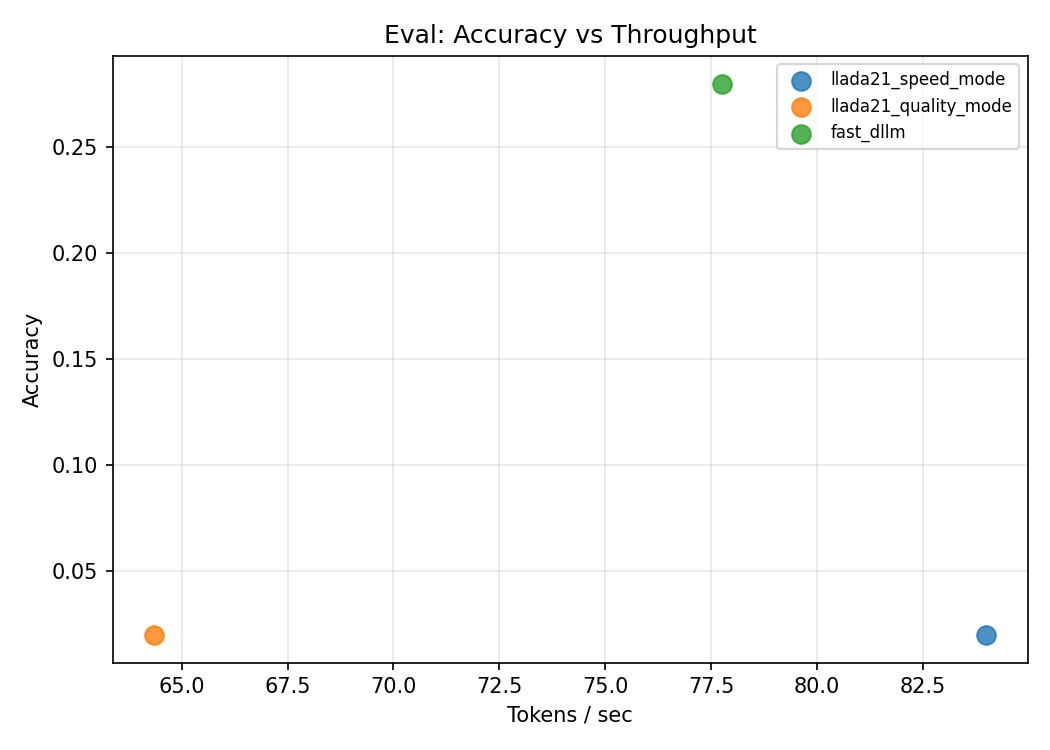
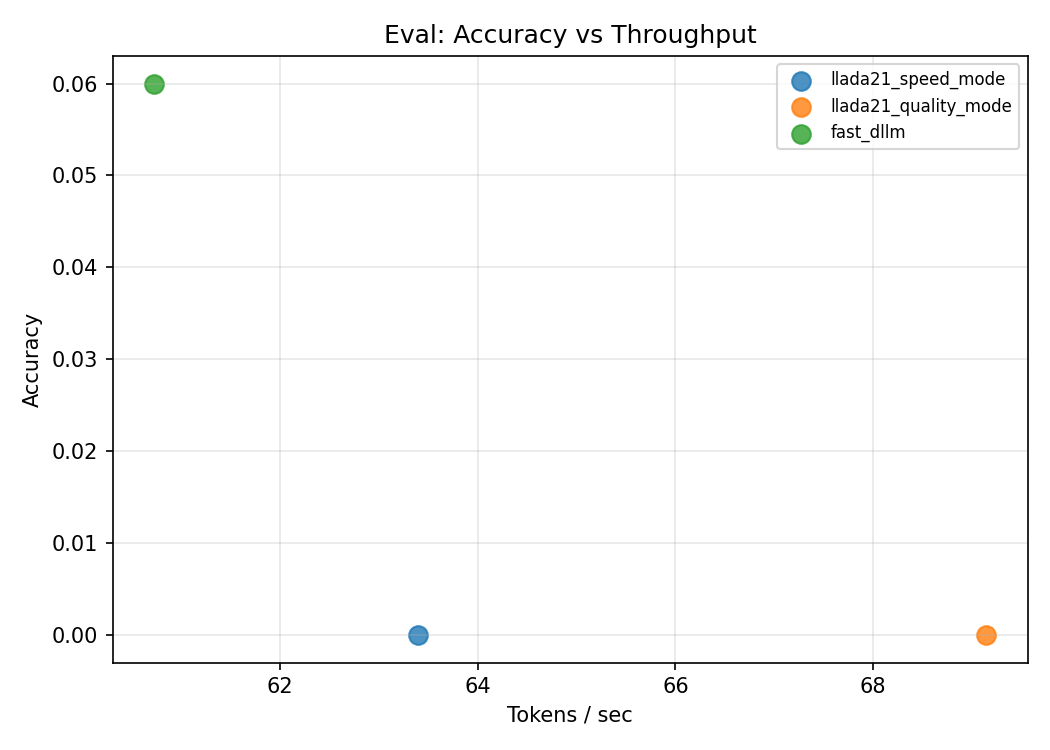
Diff applied

diff --git a/aoae/evaluators.py b/aoae/evaluators.py
@@ -14,11 +14,10 @@ from typing import Any, Dict, Optional
 
 from .code_eval import evaluate_code_sample
 from .tasks import (
-    check_gsm8k_correctness_llada,
+    check_gsm8k_correctness_official,
     check_math_correctness,
     extract_answer,
-    extract_gsm8k_llada_answer,
-    extract_gsm8k_llada_reference,
+    extract_gsm8k_official_answer,
     is_gsm8k_dataset,
 )
 
@@ -44,9 +43,9 @@ class MathEvaluator(BaseEvaluator):
 
     def __init__(self, cfg: Dict[str, Any]):
         self.eval_dataset = str(cfg.get("data", {}).get("eval_dataset", "") or "")
-        self.uses_gsm8k_llada = is_gsm8k_dataset(cfg)
-        if self.uses_gsm8k_llada:
-            self.evaluator_name = "gsm8k_llada_flexible"
+        self.uses_gsm8k_official = is_gsm8k_dataset(cfg)
+        if self.uses_gsm8k_official:
+            self.evaluator_name = "gsm8k_official_openai"
         else:
             self.evaluator_name = "math_heuristic_fallback"
             warnings.warn(
@@ -58,13 +57,13 @@ class MathEvaluator(BaseEvaluator):
 
     def evaluate(self, generated: str, reference: str, sample: Optional[Dict[str, Any]] = None) -> EvalDecision:
         del sample
-        if self.uses_gsm8k_llada:
-            pred = extract_gsm8k_llada_answer(generated)
-            gold = extract_gsm8k_llada_reference(reference)
-            ok = check_gsm8k_correctness_llada(generated, reference)
+        if self.uses_gsm8k_official:
+            pred = extract_gsm8k_official_answer(generated)
+            gold = extract_gsm8k_official_answer(reference)
+            ok = check_gsm8k_correctness_official(generated, reference)
             return EvalDecision(
                 correct=bool(ok),
-                detail="gsm8k_llada_flexible",
+                detail="gsm8k_official_openai",
                 extracted_prediction=pred,
                 extracted_reference=gold,
             )
@@ -117,7 +116,7 @@ class CodeEvaluator(BaseEvaluator):
 def describe_evaluator(cfg: Dict[str, Any]) -> str:
     task_type = str(cfg.get("evaluation", {}).get("task_type", "math")).lower()
     if task_type == "math":
-        return "gsm8k_llada_flexible" if is_gsm8k_dataset(cfg) else "math_heuristic_fallback"
+        return "gsm8k_official_openai" if is_gsm8k_dataset(cfg) else "math_heuristic_fallback"
     if task_type == "code":
         return "code_exec_or_string_match"
     return f"unknown:{task_type}"

diff --git a/tests/test_components.py b/tests/test_components.py
@@ -299,7 +299,8 @@ class TestEvalExtraction:
                 "evaluation": {"task_type": "math"},
             },
         )
-        assert "#### <answer>" in prompt_text
+        assert "#### (your numerical answer)" in prompt_text
+        assert "Please reason step by step" in prompt_text
         assert prompt_text.startswith(question)
         assert add_special_tokens is True
 
@@ -326,7 +327,7 @@ class TestEvalExtraction:
         assert extract_gsm8k_llada_answer("#### <23>") == "23"
         assert extract_gsm8k_llada_answer("#### <answer>243</answer>") == "243"
 
-    def test_math_evaluator_uses_llada_gsm8k_rule(self):
+    def test_math_evaluator_uses_official_gsm8k_rule(self):
         from aoae.evaluators import build_evaluator
 
         cfg = {
@@ -335,12 +336,12 @@ class TestEvalExtraction:
         }
         evaluator = build_evaluator(cfg)
         decision = evaluator.evaluate(
-            "Answer: Claire will eat 7 dozens of eggs in 4 weeks.",
+            "Claire will eat 7 dozens of eggs in 4 weeks.\n#### 7",
             "#### 7",
         )
 
         assert decision.correct is True
-        assert decision.detail == "gsm8k_llada_flexible"
+        assert decision.detail == "gsm8k_official_openai"
         assert decision.extracted_prediction == "7"
         assert decision.extracted_reference == "7"
 

diff --git a/aoae/tasks.py b/aoae/tasks.py
@@ -29,8 +29,9 @@ _RAW_STYLE_VALUES = {"raw", "plain", "none", "off", "false", "0"}
 _GSM8K_STYLE_VALUES = {"gsm8k", "cot", "math_cot", "1", "true", "on"}
 
 _GSM8K_PROMPT_SUFFIX = (
-    "Solve this carefully. Show short reasoning, then end with one final line:\n"
-    "#### <answer>"
+    "Solve this carefully. Please reason step by step, then end with one final line with your answer in the format:\n"
+    "#### (your numerical answer) \n"
+    "Example: Claire will eat 7 dozens of eggs.\n #### 7"
 )
 
 